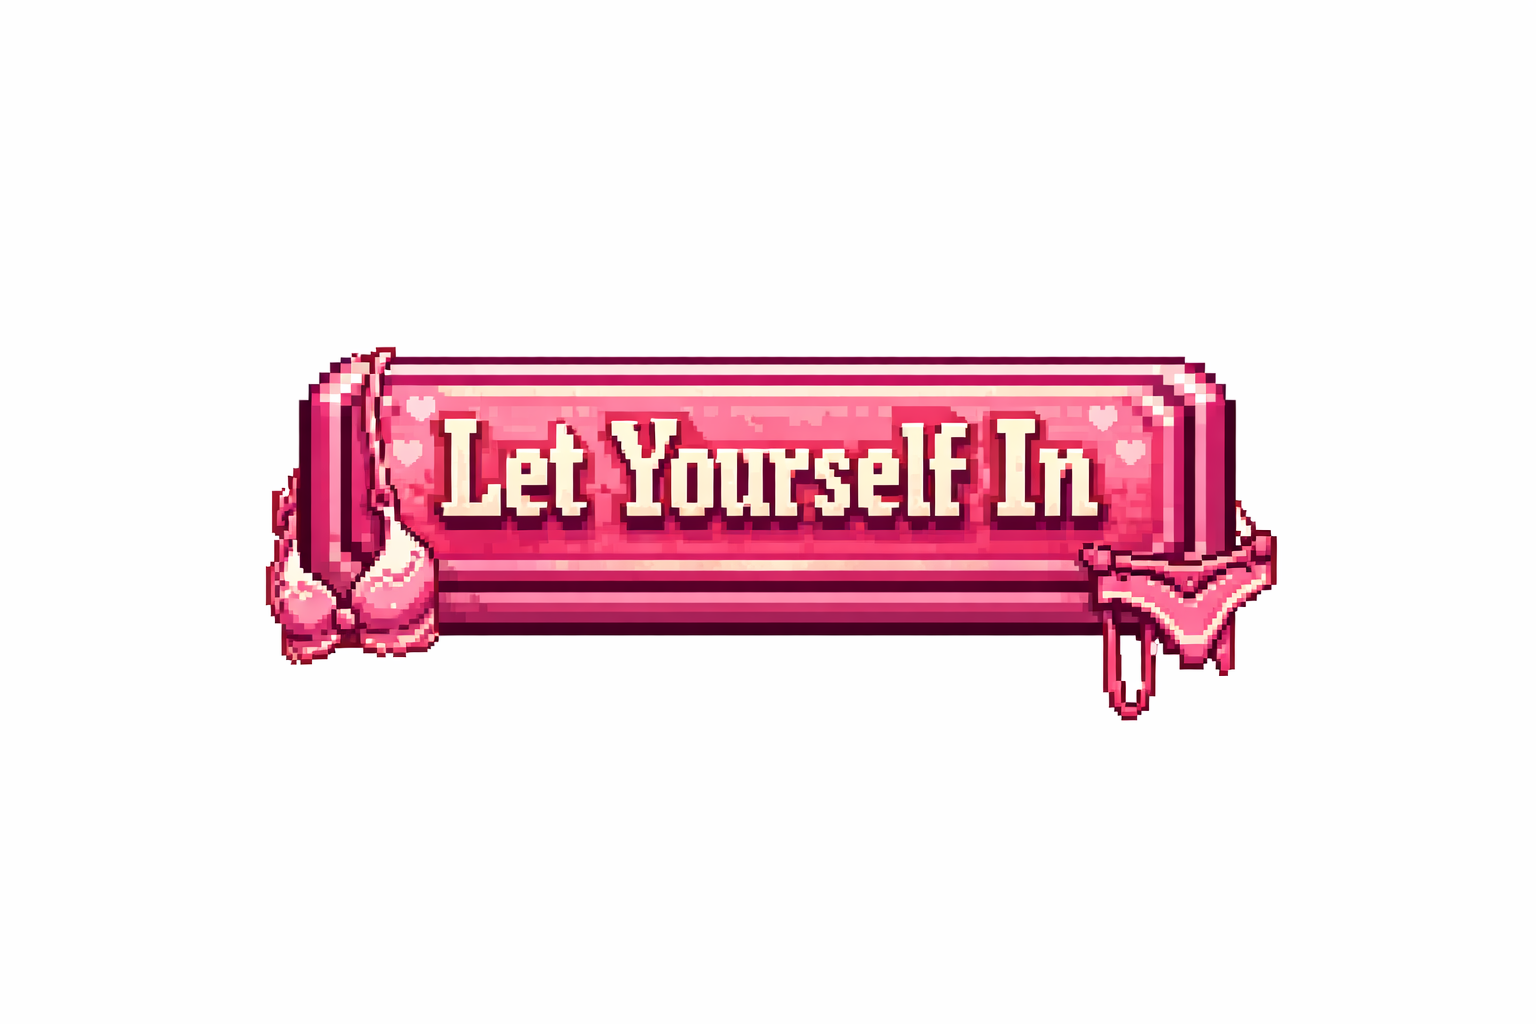
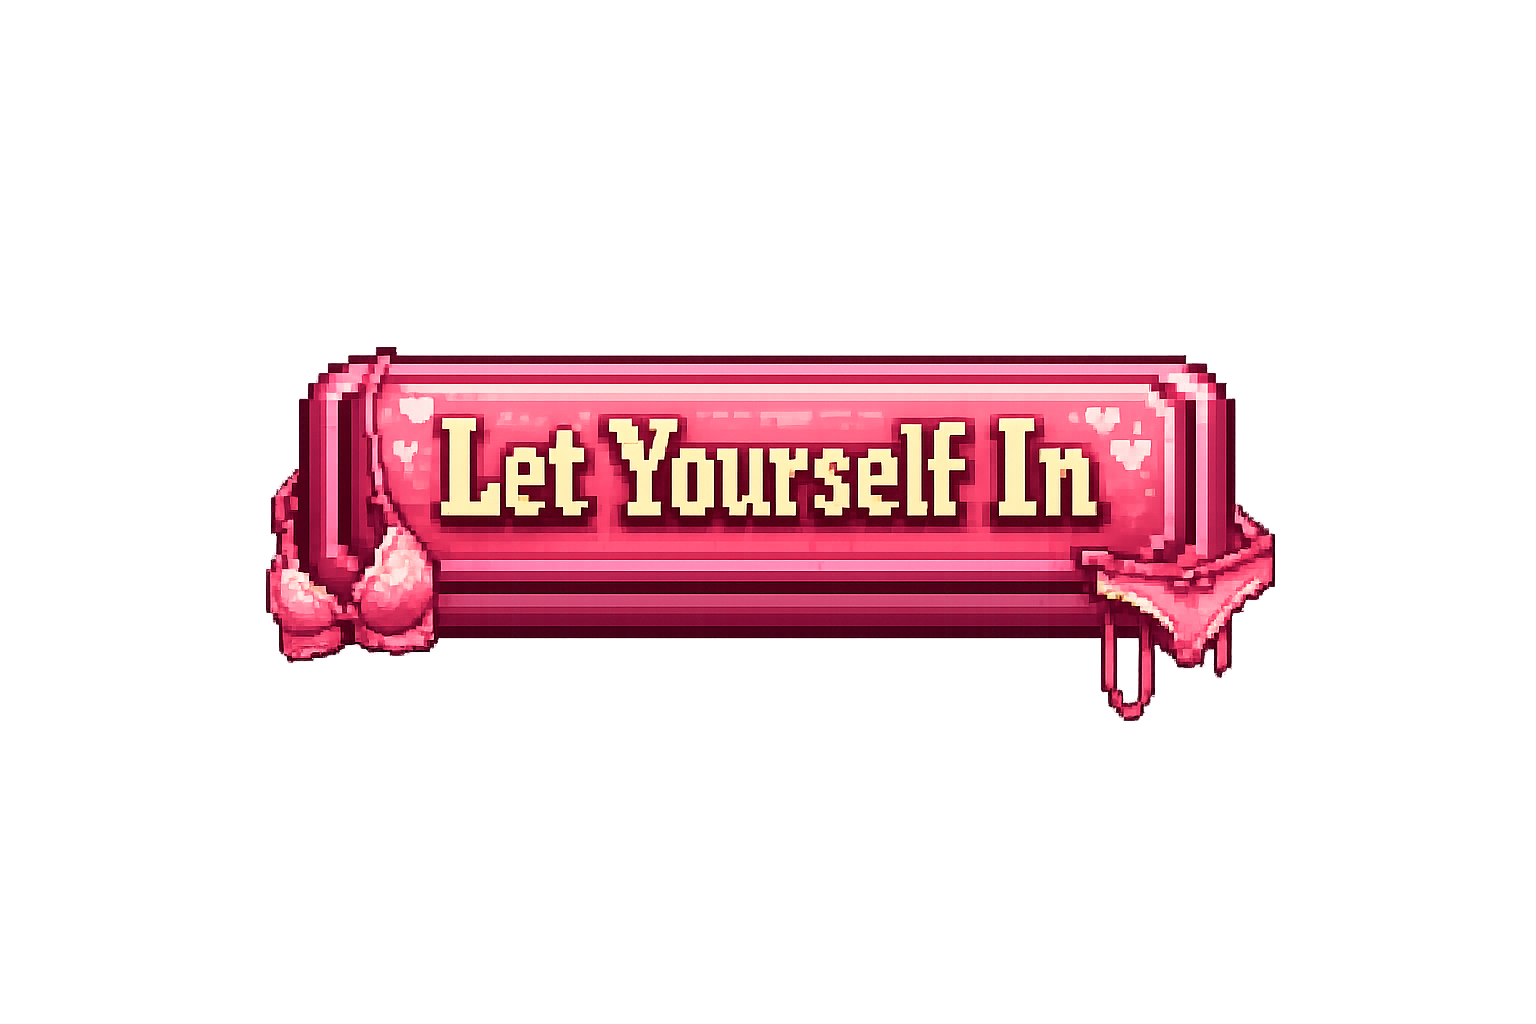
Daddy menu graphics updated

Changed region(s): [[0.1562, 0.3438, 0.8438, 0.7188]]

diff --git a/whatswrong/Assets/Game/Scripts/DaddyMenuController.cs b/whatswrong/Assets/Game/Scripts/DaddyMenuController.cs
@@ -163,7 +163,7 @@ public class DaddyMenuController : MonoBehaviour
             titleRect.anchorMax = new Vector2(0.5f, 1f);
             titleRect.pivot = new Vector2(0.5f, 1f);
             titleRect.anchoredPosition = new Vector2(0f, -20f);
-            titleRect.sizeDelta = new Vector2(1400f, 400f);
+            titleRect.sizeDelta = new Vector2(2100f, 600f);
         }
 
         // Dropdown label
@@ -226,7 +226,7 @@ public class DaddyMenuController : MonoBehaviour
         startRect.anchorMax = new Vector2(0.5f, 0.5f);
         startRect.pivot = new Vector2(0.5f, 0.5f);
         startRect.anchoredPosition = new Vector2(0f, -280f);
-        startRect.sizeDelta = new Vector2(720f, 180f);
+        startRect.sizeDelta = new Vector2(1080f, 270f);
 
         if (startSprite == null)
         {
